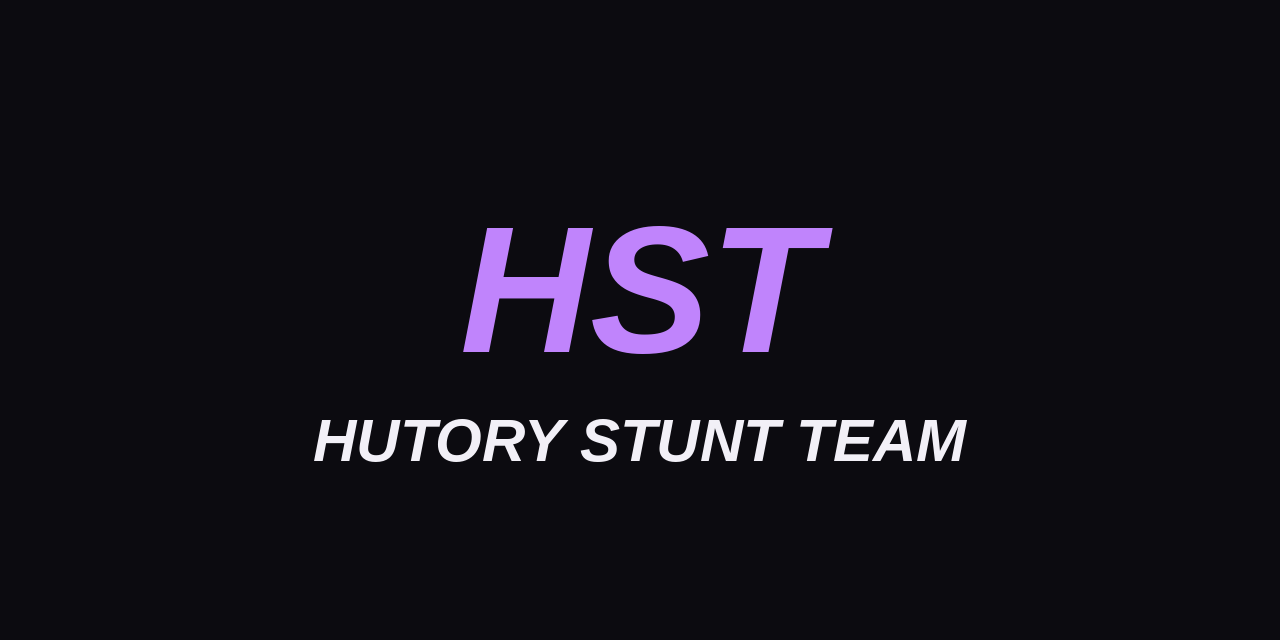
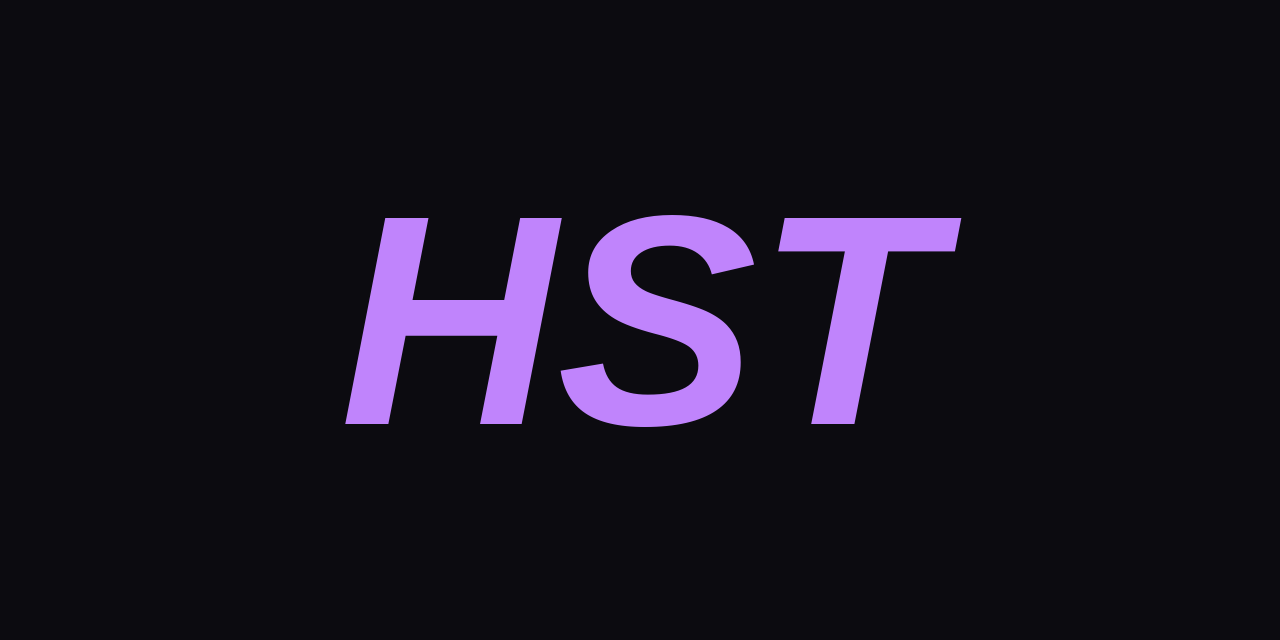
Add files via upload

Changed region(s): [[0.2188, 0.3125, 0.7812, 0.7188]]

diff --git a/index.html b/index.html
@@ -27,8 +27,26 @@ nav button{flex:1;white-space:nowrap;background:var(--card);border:1px solid var
 nav button.on{background:linear-gradient(135deg,var(--accent),var(--accent2));color:#fff;border-color:transparent}
 main{padding:16px}
 section{display:none}
-section.on{display:block;animation:in .25s}
-@keyframes in{from{opacity:0;transform:translateY(8px)}to{opacity:1}}
+section.on{display:block;animation:inR .38s cubic-bezier(.2,.8,.2,1)}
+section.on.back{animation-name:inL}
+@keyframes inR{from{opacity:0;transform:translateX(36px)}to{opacity:1;transform:none}}
+@keyframes inL{from{opacity:0;transform:translateX(-36px)}to{opacity:1;transform:none}}
+@keyframes up2{from{opacity:0;transform:translateY(18px) scale(.97)}to{opacity:1;transform:none}}
+section.on .prod,section.on .card,section.on .hero{animation:up2 .5s cubic-bezier(.2,.8,.2,1) both}
+section.on > :nth-child(2){animation-delay:.04s}
+section.on > :nth-child(3){animation-delay:.09s}
+#list .prod:nth-child(1){animation-delay:.12s!important}
+#list .prod:nth-child(2){animation-delay:.2s!important}
+#list .prod:nth-child(3){animation-delay:.28s!important}
+section.on .card:nth-of-type(2){animation-delay:.1s}
+section.on .card:nth-of-type(3){animation-delay:.18s}
+nav button{transition:background .25s,color .25s,transform .15s}
+nav button:active,.btn:active,.prod:active{transform:scale(.96)}
+.btn,.prod{transition:transform .15s,box-shadow .2s}
+.prod:hover{transform:translateY(-2px)}
+body,header,.card,.prod,.hero,.link,input,textarea{transition:background-color .35s,color .35s,border-color .35s}
+.prod img{transition:transform .5s}.prod:hover img{transform:scale(1.03)}
+@media (prefers-reduced-motion:reduce){*{animation:none!important;transition:none!important}}
 .hero{text-align:center;padding:26px 16px 22px;background:var(--card);border:1px solid var(--line);border-radius:20px;margin-bottom:22px}
 .kicker{font-size:11px;letter-spacing:2px;color:var(--accent2);font-weight:700;text-transform:uppercase}
 .hero h1{margin:10px 0 8px;font-size:26px;line-height:1.1;font-weight:900;text-transform:uppercase}
@@ -66,6 +84,12 @@ input:focus,textarea:focus{outline:2px solid var(--accent);border-color:transpar
 .close{float:right;background:var(--card);border:1px solid var(--line);color:var(--text);width:34px;height:34px;border-radius:50%;font-size:16px}
 .done{text-align:center;padding:30px 10px}.done .ok{font-size:54px}
 .err{color:#f87171;font-size:13px;margin-top:10px;display:none}
+.ico{width:1.1em;height:1.1em;vertical-align:-.2em;margin-right:6px}
+.big{display:flex;justify-content:center;margin:2px 0 16px;color:var(--text)}
+.cap{text-align:center;font-weight:800;font-size:18px;letter-spacing:.5px;margin:-6px 0 16px;color:var(--text)}
+.big .ico{width:56px;height:56px;margin:0}
+nav button .ico{color:var(--text)}
+nav button.on .ico{color:#fff}
 </style>
 </head>
 <body>
@@ -77,13 +101,13 @@ input:focus,textarea:focus{outline:2px solid var(--accent);border-color:transpar
   <nav id="nav">
     <button data-t="catalog" class="on">Каталог</button>
     <button data-t="ads">Реклама</button>
-    <button data-t="tiktok">TikTok</button>
+    <button data-t="channels">Канали</button>
   </nav>
 </header>
 <main>
   <section id="catalog" class="on">
     <div class="hero">
-      <div class="kicker">Hutory Stunt Team</div>
+      <div class="kicker">HST</div>
       <h1>Мерч команди HST</h1>
       <p>Таблички, брелки та стікерпаки. Відправляємо Новою Поштою по всій Україні.</p>
     </div>
@@ -105,12 +129,21 @@ input:focus,textarea:focus{outline:2px solid var(--accent);border-color:transpar
     </div>
   </section>
 
-  <section id="tiktok">
-    <h2>TikTok</h2>
-    <p class="sub">Наші трюки та нові відео.</p>
+  <section id="channels">
+    <h2>Канали</h2>
+    <p class="sub">Підписуйся на нас, щоб не пропустити нові відео та трюки.</p>
     <div class="card">
+      <div class="big"><svg class="ico" viewBox="0 0 24 24" fill="currentColor"><path d="M23.498 6.186a3.016 3.016 0 0 0-2.122-2.136C19.505 3.545 12 3.545 12 3.545s-7.505 0-9.377.505A3.017 3.017 0 0 0 .502 6.186C0 8.07 0 12 0 12s0 3.93.502 5.814a3.016 3.016 0 0 0 2.122 2.136c1.871.505 9.376.505 9.376.505s7.505 0 9.377-.505a3.015 3.015 0 0 0 2.122-2.136C24 15.93 24 12 24 12s0-3.93-.502-5.814zM9.545 15.568V8.432L15.818 12l-6.273 3.568z"/></svg></div>
+      <div class="cap">G2HST</div>
+      <a class="btn full" id="ytBtn" href="#">Відкрити YouTube</a>
+    </div>
+    <div class="card">
+      <div class="big"><svg class="ico" viewBox="0 0 24 24" fill="currentColor"><path d="M12.525.02c1.31-.02 2.61-.01 3.91-.02.08 1.53.63 3.09 1.75 4.17 1.12 1.11 2.7 1.62 4.24 1.79v4.03c-1.44-.05-2.89-.35-4.2-.97-.57-.26-1.1-.59-1.62-.93-.01 2.92.01 5.84-.02 8.75-.08 1.4-.54 2.79-1.35 3.94-1.31 1.92-3.58 3.17-5.91 3.21-1.43.08-2.86-.31-4.08-1.03-2.02-1.19-3.44-3.37-3.65-5.71-.02-.5-.03-1-.01-1.49.18-1.9 1.12-3.72 2.58-4.96 1.66-1.44 3.98-2.13 6.15-1.72.02 1.48-.04 2.96-.04 4.44-.99-.32-2.15-.23-3.02.37-.63.41-1.11 1.04-1.36 1.75-.21.51-.15 1.07-.14 1.61.24 1.64 1.82 3.02 3.5 2.87 1.12-.01 2.19-.66 2.77-1.61.19-.33.4-.67.41-1.06.1-1.79.06-3.57.07-5.36.01-4.03-.01-8.05.02-12.07z"/></svg></div>
+      <div class="cap">YT:G2HST #HST</div>
       <a class="btn full" id="ttBtn" href="#">Відкрити TikTok</a>
-      <a class="link" id="mgr" href="#">Менеджер замовлень <span id="mgrName"></span></a>
+    </div>
+    <div class="card">
+      <a class="link" id="mgr" href="#" style="margin-top:0">Менеджер замовлень <span id="mgrName"></span></a>
     </div>
   </section>
 </main>
@@ -124,7 +157,7 @@ const CFG = {
     {id:"keychain",name:"Брелок HST",    price:100, img:"keychain.jpg", desc:"Брелок з логотипом HST."},
     {id:"stickers",name:"Стікерпак HST", price:200, img:"stickers.jpg", desc:"Набір вінілових стікерів HST."}
   ],
-  manager: "", tiktok: ""   // перезаписується з /config
+  manager: "", tiktok: "", youtube: ""   // перезаписується з /config
 };
 const tg = window.Telegram && Telegram.WebApp;
 if (tg){ tg.ready(); tg.expand(); }
@@ -142,7 +175,9 @@ $("#theme").onclick=()=>{
 $("#nav").onclick=e=>{
   const b=e.target.closest("button"); if(!b) return;
   document.querySelectorAll("nav button").forEach(x=>x.classList.toggle("on",x===b));
-  document.querySelectorAll("section").forEach(s=>s.classList.toggle("on",s.id===b.dataset.t));
+  const order=["catalog","ads","channels"]; const cur=document.querySelector("section.on");
+  const back=cur && order.indexOf(b.dataset.t)<order.indexOf(cur.id);
+  document.querySelectorAll("section").forEach(s=>{s.classList.remove("on","back"); if(s.id===b.dataset.t){void s.offsetWidth; s.classList.add("on"); if(back) s.classList.add("back");}});
   scrollTo(0,0);
 };
 
@@ -157,11 +192,12 @@ $("#list").onclick=e=>{const b=e.target.closest("button[data-id]"); if(b) openOr
 // links from server config
 function open_(url){ if(!url) return; if(tg && url.includes("t.me")) tg.openTelegramLink(url); else if(tg) tg.openLink(url); else window.open(url,"_blank"); }
 fetch("config").then(r=>r.json()).then(c=>{
-  CFG.manager=c.manager||""; CFG.tiktok=c.tiktok||"";
+  CFG.manager=c.manager||""; CFG.tiktok=c.tiktok||""; CFG.youtube=c.youtube||"";
   $("#mgrName").textContent = CFG.manager?("@"+CFG.manager):"";
 }).catch(()=>{});
 $("#adBtn").onclick=e=>{e.preventDefault(); open_(CFG.manager?`https://t.me/${CFG.manager}`:"")};
 $("#mgr").onclick=e=>{e.preventDefault(); open_(CFG.manager?`https://t.me/${CFG.manager}`:"")};
+$("#ytBtn").onclick=e=>{e.preventDefault(); open_(CFG.youtube)};
 $("#ttBtn").onclick=e=>{e.preventDefault(); open_(CFG.tiktok)};
 
 // order

diff --git a/server.py b/server.py
@@ -17,10 +17,11 @@ WEBAPP_URL = os.environ.get("WEBAPP_URL", "").rstrip("/")
 ADMIN_ID = os.environ.get("ADMIN_ID", "")
 MANAGER = os.environ.get("MANAGER", "g2hst_manager").lstrip("@")
 TIKTOK = os.environ.get("TIKTOK", "https://www.tiktok.com/@g2hst")
+YOUTUBE = os.environ.get("YOUTUBE", "https://youtube.com/@g2hst?si=qaQ2cwDuvmlo11iv")
 API = f"https://api.telegram.org/bot{TOKEN}"
 
 WELCOME = ("Вітаємо в магазині HST!\n\n"
-           "Тут можна замовити таблички, брелки та стікерпаки Hutory Stunt Team.\n\n"
+           "Тут можна замовити таблички, брелки та стікерпаки HST.\n\n"
            "З усіх питань і замовлень звертайтесь до менеджера" + (f" @{MANAGER}." if MANAGER else "."))
 
 
@@ -69,7 +70,7 @@ class H(SimpleHTTPRequestHandler):
     def do_GET(self):
         path = self.path.split("?")[0]
         if path == "/config":
-            return self._json({"manager": MANAGER, "tiktok": TIKTOK})
+            return self._json({"manager": MANAGER, "tiktok": TIKTOK, "youtube": YOUTUBE})
         if path == "/":
             self.path = "/index.html"
         elif not path.lower().endswith((".jpg", ".png", ".html")):
